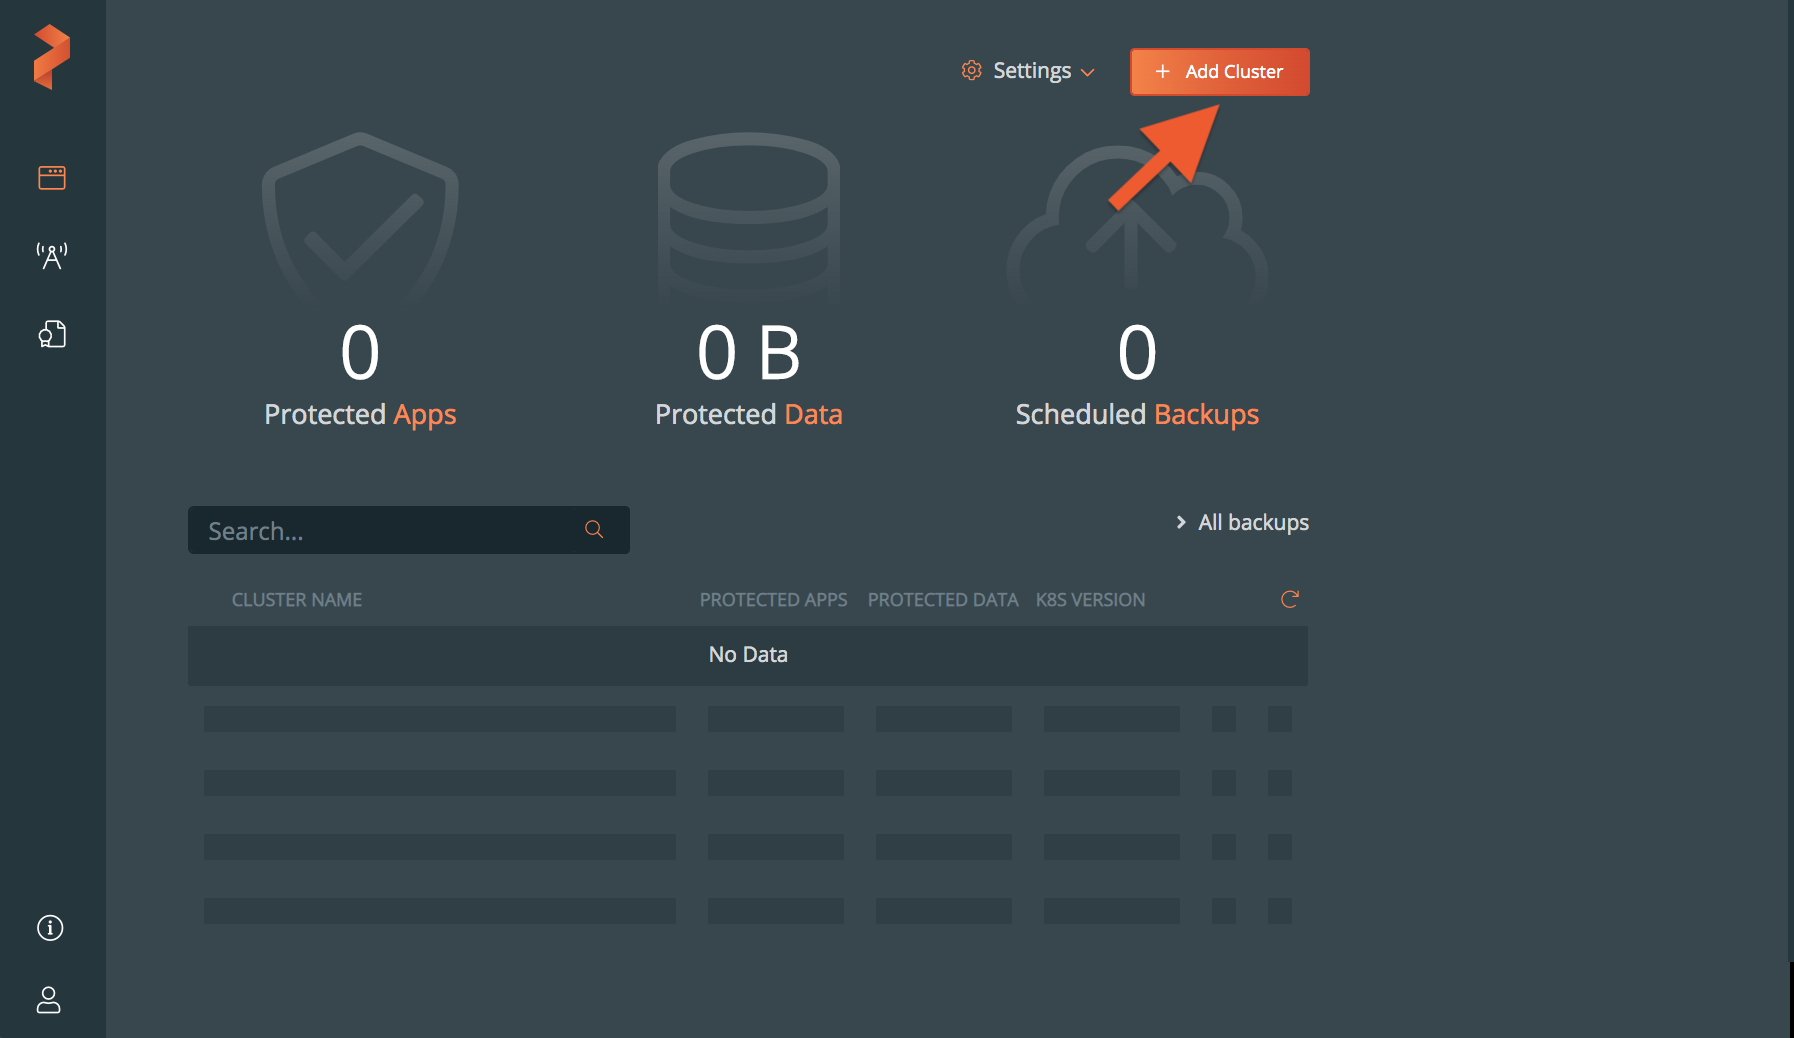
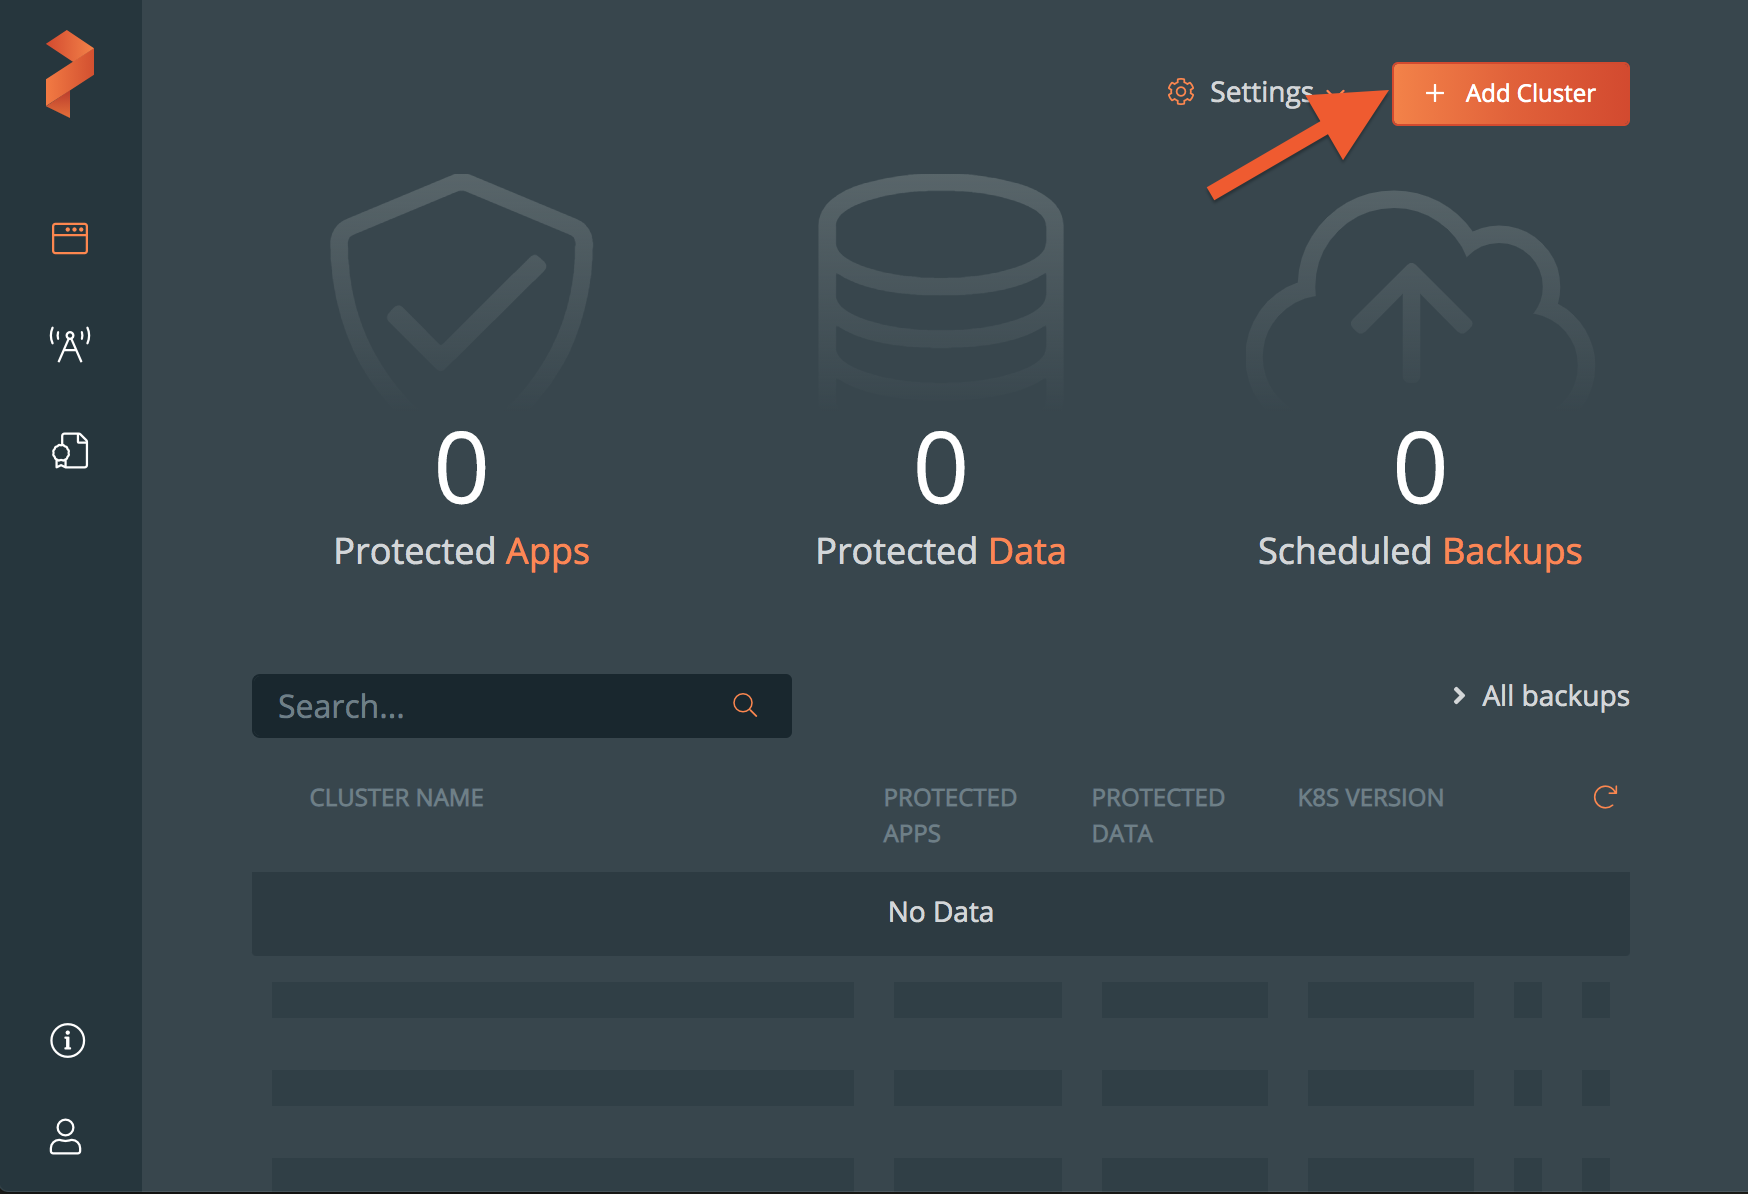
Update width
Update width

diff --git a/content/use-px-backup/credentials/azure.md b/content/use-px-backup/credentials/azure.md
@@ -16,15 +16,15 @@ Perform the following steps to add an Azure cloud account to PX-Backup:
 
 1. From the home page, select **Settings**, **Cloud Settings** to open the cloud settings page.
 
-    ![cloud settings](/img/cloud-settings.png)
+    ![Cloud settings](/img/cloud-settings.png)
 
 2. Select **Add**.
 
-    ![add new cloud account](/img/add-new-cloud-account.png)
+    ![Add new cloud account](/img/add-new-cloud-account.png)
 
 4. Choose **Azure** from the drop-down list:
 
-    ![select Azure](/img/choose-azure.png)
+    ![Select Azure](/img/choose-azure.png)
 
 3. Populate the fields in the **Add Cloud Account** page:
 
@@ -36,7 +36,7 @@ Perform the following steps to add an Azure cloud account to PX-Backup:
     * In the **Tenant ID** field, specify your Azure Active Directory tenant ID.
     * In the **Subscription ID** field, specify your Azure subscription ID.
 
-    ![](/img/azure-credential.png)
+    ![Populate the fields](/img/azure-credential.png)
 
 4. Select the **Add** button
 

diff --git a/content/use-px-backup/backup-restore/perform-backup.md b/content/use-px-backup/backup-restore/perform-backup.md
@@ -14,9 +14,17 @@ Once you’ve created any backup rules and schedule policies you want, you can u
 
     ![Select cluster](/img/select-backup.png)
 
-2. Select the namespaces and apply label selectors to filter the resources you want to back up:
+2. Select the namespaces and apply label selectors to filter the resources you want to back up: <!-- There's a "include any new namespaces created" button that allows you to grab everything when you run the backup, this is different from specifiying every namespace because it will always grab all namespaces through use of a wildcard.  -->
 
     ![Select namespaces and labels](/img/select-namespace-labels.png)
+
+
+    {{<info>}}
+**NOTE:** To back up all namespaces, choose **Select All**:
+
+    ![Select all namespaces](/img/select-all-namespaces.png)
+
+    {{</info>}}
 
 3. Select the **Backup** button:
 

diff --git a/content/use-px-backup/cluster/on-prem.md b/content/use-px-backup/cluster/on-prem.md
@@ -19,9 +19,10 @@ disableprevnext: true
 
 2. On the **Add Kubernetes Cluster** page, enter the cluster details:
 
-    1. The name of the cluster
-    2. Retrieve the Kubeconfig from your cluster and paste it in the **Kubeconfig** text frame, or select the **Browse** button to upload it from a file.
-    3. Select the **Others** radio button from the **Kubernetes Service** radio group
-    5. Select the **Submit** button
+    * The name of the cluster
+    * Retrieve the Kubeconfig from your cluster and paste it in the **Kubeconfig** text frame, or select the **Browse** button to upload it from a file.
+    * Select the **Others** radio button from the **Kubernetes Service** radio group
 
     ![Enter the cluster details](/img/enter-other-kubernetes-distributions-cluster-details.png)
+
+3. Select the **Submit** button

diff --git a/content/use-px-backup/cluster/gcp-gke.md b/content/use-px-backup/cluster/gcp-gke.md
@@ -23,10 +23,12 @@ disableprevnext: true
     * The name of the cluster
     * Retrieve the Kubeconfig from your cluster and paste it in the **Kubeconfig** text frame, or select the **Browse** button to upload it from a file.
     * Select the **GKE** radio button from the **Kubernetes Service** radio group
-    * From the **Cloud Account** dropdown, select the cloud account you previously created.
+    * From the **Cloud Account** dropdown, select your GCP cloud account.
     * Select the **Submit** button
 
     ![Enter the cluster details](/img/enter-gcp-gke-cluster-details.png)
+
+3. Select the **Submit** button
 
 
 <!-- Modify the node security settings, Create a cluster role with compute engine read/write access.

diff --git a/content/use-px-backup/cluster/aws-eks.md b/content/use-px-backup/cluster/aws-eks.md
@@ -24,9 +24,10 @@ disableprevnext: true
     * The name of the cluster
     * Retrieve the Kubeconfig from your cluster and paste it in the **Kubeconfig** text frame, or select the **Browse** button to upload it from a file.
     * Select the **EKS** radio button from the **Kubernetes Service** radio group.
-    * From the **Cloud Account** dropdown, select the cloud account you previously created.
-    * Select the **Submit** button
+    * From the **Cloud Account** dropdown, select your AWS cloud account.
 
     ![Enter the cluster details](/img/enter-eks-cluster-details.png)
+
+3. Select the **Submit** button
 
 

diff --git a/content/use-px-backup/credentials/gcp.md b/content/use-px-backup/credentials/gcp.md
@@ -31,10 +31,11 @@ Perform the following steps to add a GCP cloud account to PX-Backup:
 
     ![Choose Google cloud](/img/choose-google-cloud.png)
 
-5. Populate the fields in the **Add Cloud Account** page:
+4. Populate the fields in the **Add Cloud Account** page:
 
     * Create a descriptive account name
     * Paste the content of your JSON key for the service account associated with your GKE cluster, or select the **Browse** button to upload it from a file.
-    * Select the **Add** button
 
     ![Add a Google cloud account](/img/gcp-account-add.png)
+
+5. Select the **Add** button

diff --git a/content/use-px-backup/schedule/_index.md b/content/use-px-backup/schedule/_index.md
@@ -17,7 +17,7 @@ type: common-landing
 
     ![Add new schedule policy](/img/add-new-schedule.png)
 
-3. From the Add Policy dialogue box, name your policy and select a type:
+3. From the **Add Policy** dialogue box, name your policy and select a type:
 
     * **Periodic**: A periodic policy runs at fixed intervals defined in minutes and hours.
     * **Daily**: Runs every day at a specified time. Provide the hours and minutes from midnight to define the time.

diff --git a/content/use-px-backup/cluster/azure-aks.md b/content/use-px-backup/cluster/azure-aks.md
@@ -31,8 +31,7 @@ disableprevnext: true
     * The name of the cluster
     * Retrieve the Kubeconfig from your cluster and paste it in the **Kubeconfig** text frame, or select the **Browse** button to upload it from a file.
     * Select the **Others** radio button from the **Kubernetes Service** radio group
-    * Select the **Submit** button
 
     ![Enter the cluster details](/img/enter-aks-cluster-details.png)
 
-
+3. Select the **Submit** button

diff --git a/content/use-px-backup/credentials/aws.md b/content/use-px-backup/credentials/aws.md
@@ -47,6 +47,7 @@ Perform the following steps to add an AWS cloud account to PX-Backup:
     * Enter a descriptive account name
     * In the **Public Key** field, add your S3 access key ID
     * In the **Secret Key** field, add your S3 secret access key
-    * Select the **Add** button
 
     ![Populate the fields](/img/aws-credential.png)
+
+5. Select the **Add** button
